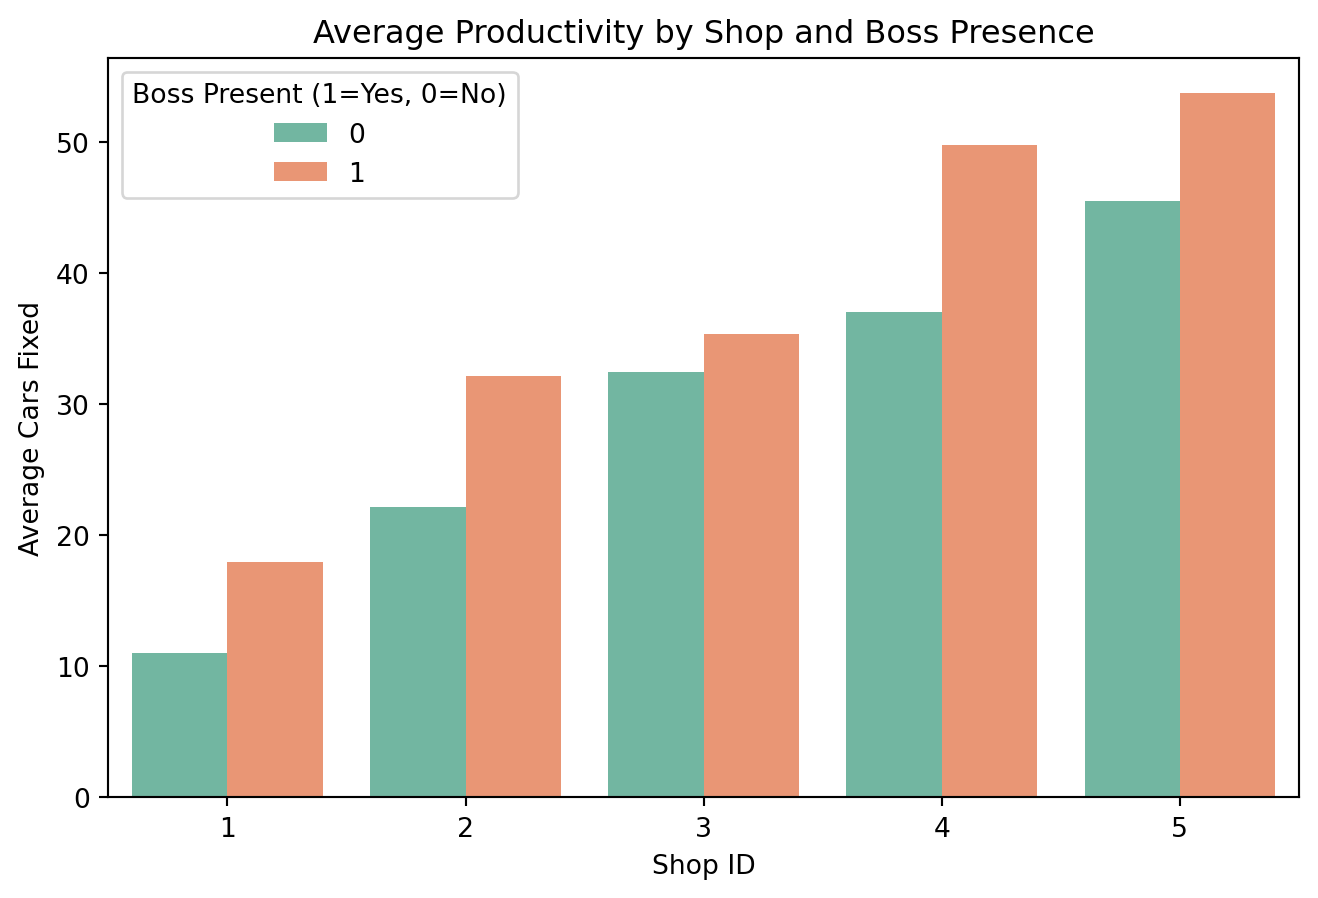
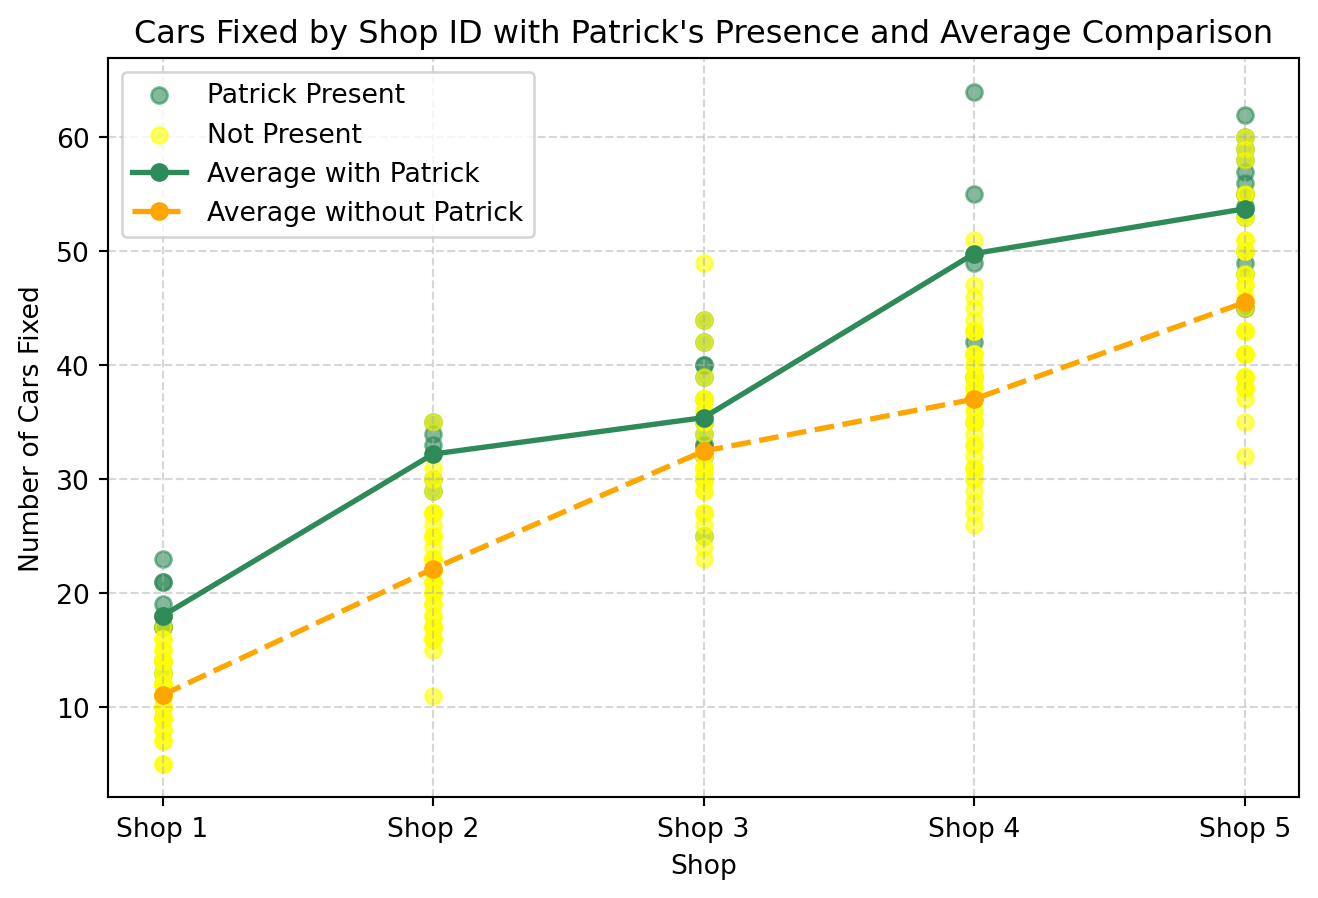
2nd commit

diff --git a/index.html b/index.html
@@ -69,11 +69,26 @@ ul.task-list li input[type="checkbox"] {
 <h2 class="anchored" data-anchor-id="decision-advocacy-challenge---patricks-auto-shop-analysis">🔧 Decision Advocacy Challenge - Patrick’s Auto Shop Analysis</h2>
 <section id="what-does-the-data-show" class="level3">
 <h3 class="anchored" data-anchor-id="what-does-the-data-show">What does the data show?</h3>
-<div id="5ce04f76" class="cell" data-execution_count="1">
+</section>
+<section id="charting-all-the-data-points-and-visualizing-the-trend-with-without-patricks-presense" class="level3">
+<h3 class="anchored" data-anchor-id="charting-all-the-data-points-and-visualizing-the-trend-with-without-patricks-presense">Charting all the data points and visualizing the trend with/ without Patrick’s presense</h3>
+<div id="7c4c9f30" class="cell" data-execution_count="1">
 <div class="cell-output cell-output-display">
 <div>
 <figure class="figure">
 <p><img src="index_files/figure-html/cell-2-output-1.png" width="659" height="449" class="figure-img"></p>
+</figure>
+</div>
+</div>
+</div>
+</section>
+<section id="visualizing-the-effect-delta-of-patricks-presense" class="level3">
+<h3 class="anchored" data-anchor-id="visualizing-the-effect-delta-of-patricks-presense">Visualizing the effect/ delta of Patrick’s presense</h3>
+<div id="6e3cde75" class="cell" data-execution_count="2">
+<div class="cell-output cell-output-display">
+<div>
+<figure class="figure">
+<p><img src="index_files/figure-html/cell-3-output-1.png" width="659" height="449" class="figure-img"></p>
 </figure>
 </div>
 </div>
@@ -277,11 +292,11 @@ ul.task-list li input[type="checkbox"] {
 <li><strong>Priority Focus:</strong> He spends most time in Shops 4 and 2 (where his presence has the biggest effect), some in Shop 5, and little in Shops 1 and 3</li>
 <li><strong>Shop 3 Independence:</strong> He skips Shop 3 (since it barely benefits from oversight) and rotates among the other four shops.</li>
 </ul>
-<div id="41dac66b" class="cell" data-execution_count="2">
+<div id="6f7fc56e" class="cell" data-execution_count="3">
 <div class="cell-output cell-output-display">
 <div>
 <figure class="figure">
-<p><img src="index_files/figure-html/cell-3-output-1.png" width="667" height="449" class="figure-img"></p>
+<p><img src="index_files/figure-html/cell-4-output-1.png" width="667" height="449" class="figure-img"></p>
 </figure>
 </div>
 </div>
@@ -306,11 +321,11 @@ ul.task-list li input[type="checkbox"] {
 </ul>
 <section id="financial-impact" class="level3">
 <h3 class="anchored" data-anchor-id="financial-impact">Financial Impact</h3>
-<div id="70a64d6d" class="cell" data-execution_count="3">
+<div id="6222ca84" class="cell" data-execution_count="4">
 <div class="cell-output cell-output-display">
 <div>
 <figure class="figure">
-<p><img src="index_files/figure-html/cell-4-output-1.png" width="688" height="463" class="figure-img"></p>
+<p><img src="index_files/figure-html/cell-5-output-1.png" width="688" height="463" class="figure-img"></p>
 </figure>
 </div>
 </div>
